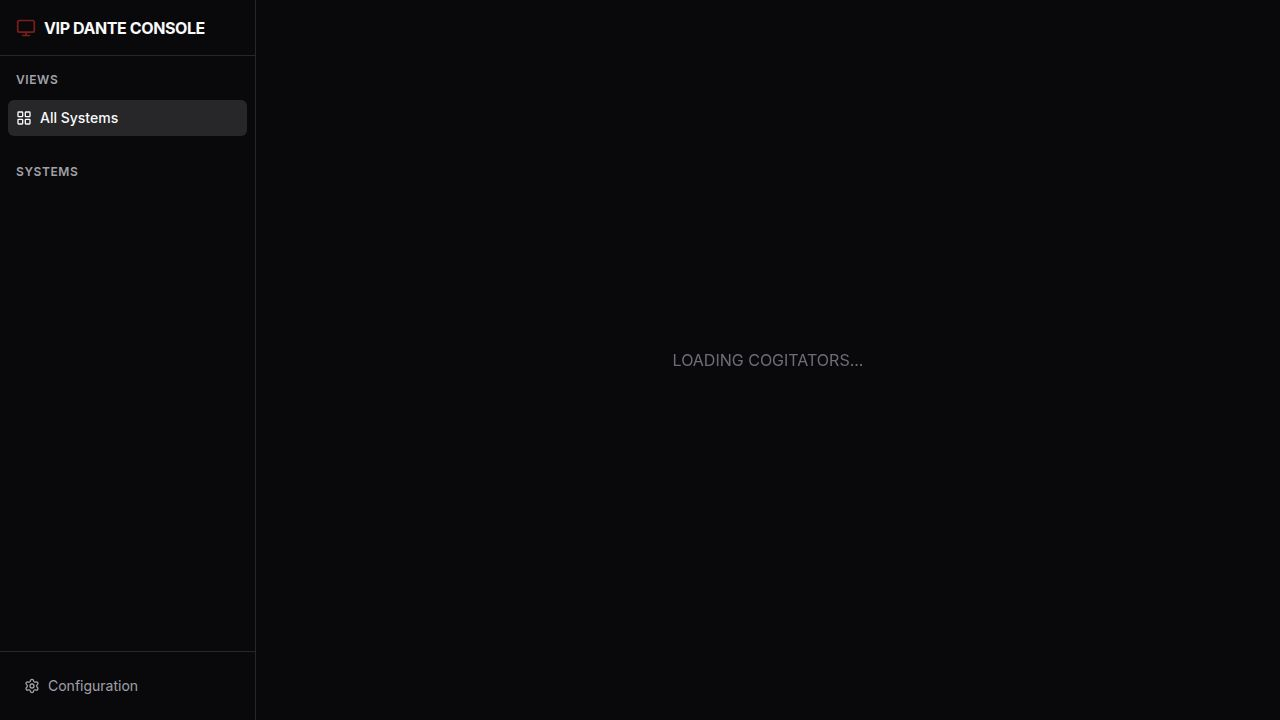
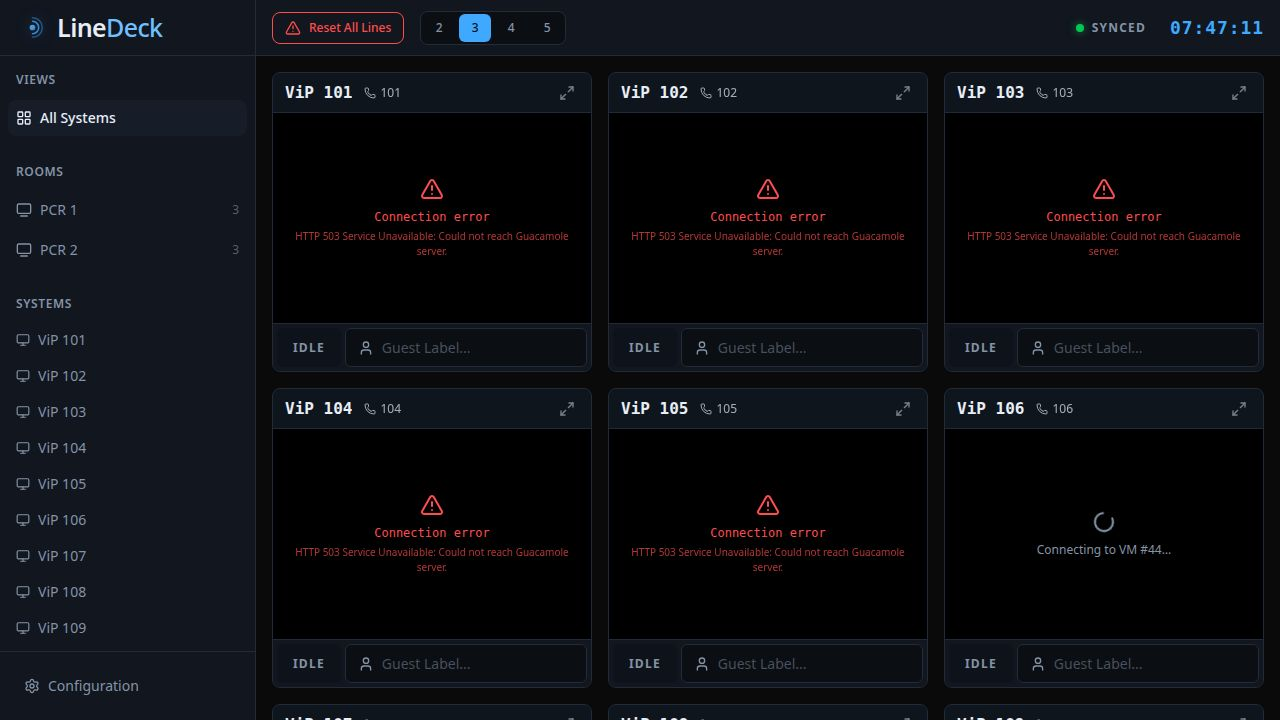
Improve how remote sessions are managed and displayed
Refactor Guacamole client component to separate connection lifecycle from input handling, fixing a bug where expanding/collapsing tiles would tear down the session.

Replit-Commit-Author: Agent
Replit-Commit-Session-Id: c8d1aef7-62c7-4109-8a13-491b03c366bc
Replit-Commit-Checkpoint-Type: full_checkpoint
Replit-Commit-Event-Id: c1f75194-f396-44e5-a64b-2d86f6e42dfe
Replit-Commit-Screenshot-Url: https://storage.googleapis.com/screenshot-production-us-central1/3bac0a0e-67da-4059-9705-85fab959bcc3/c8d1aef7-62c7-4109-8a13-491b03c366bc/QyrLotT
Replit-Helium-Checkpoint-Created: true

diff --git a/artifacts/console/src/components/guac-client.tsx b/artifacts/console/src/components/guac-client.tsx
@@ -17,11 +17,11 @@ export function GuacClient({ connectionId, dataSource, interactive = false }: Gu
   const [phase, setPhase] = useState<Phase>("connecting");
   const [message, setMessage] = useState<string>("");
 
+  // ── Connection lifecycle: depends ONLY on connection identity.
+  // Toggling `interactive` (expand/collapse) must NOT tear down the tunnel.
   useEffect(() => {
     let cancelled = false;
     let client: Guacamole.Client | null = null;
-    let mouse: Guacamole.Mouse | null = null;
-    let keyboard: Guacamole.Keyboard | null = null;
     let displayEl: HTMLElement | null = null;
 
     (async () => {
@@ -40,7 +40,6 @@ export function GuacClient({ connectionId, dataSource, interactive = false }: Gu
         client = new Guacamole.Client(tunnel);
         clientRef.current = client;
 
-        // Render the Guacamole display into our container.
         const display = client.getDisplay();
         displayEl = display.getElement();
         if (containerRef.current) {
@@ -64,31 +63,13 @@ export function GuacClient({ connectionId, dataSource, interactive = false }: Gu
           token: authToken,
           GUAC_DATA_SOURCE: effectiveDs,
           GUAC_ID: String(connectionId),
-          GUAC_TYPE: "c", // connection (not group)
+          GUAC_TYPE: "c",
           GUAC_WIDTH: String(Math.max(640, containerRef.current?.clientWidth ?? 1024)),
           GUAC_HEIGHT: String(Math.max(360, containerRef.current?.clientHeight ?? 768)),
           GUAC_DPI: "96",
         });
 
         client.connect(params.toString());
-
-        if (interactive && containerRef.current) {
-          mouse = new Guacamole.Mouse(containerRef.current);
-          const fwd = () => {
-            if (client && mouse) client.sendMouseState(mouse.currentState, true);
-          };
-          mouse.on("mousedown", fwd);
-          mouse.on("mouseup", fwd);
-          mouse.on("mousemove", fwd);
-
-          keyboard = new Guacamole.Keyboard(document);
-          keyboard.onkeydown = (sym) => {
-            if (client) client.sendKeyEvent(1, sym);
-          };
-          keyboard.onkeyup = (sym) => {
-            if (client) client.sendKeyEvent(0, sym);
-          };
-        }
       } catch (err) {
         if (cancelled) return;
         setPhase("error");
@@ -99,32 +80,55 @@ export function GuacClient({ connectionId, dataSource, interactive = false }: Gu
     return () => {
       cancelled = true;
       try {
-        if (mouse) {
-          mouse.offEach(["mousedown", "mouseup", "mousemove"], () => true);
-        }
-        if (keyboard) {
-          keyboard.onkeydown = null;
-          keyboard.onkeyup = null;
-        }
-        if (client) {
-          client.disconnect();
-        }
+        if (client) client.disconnect();
       } catch {
-        // swallow — best-effort cleanup
+        // best-effort
       }
       clientRef.current = null;
       if (displayEl && displayEl.parentNode) {
         displayEl.parentNode.removeChild(displayEl);
       }
     };
-  }, [connectionId, dataSource, interactive]);
+  }, [connectionId, dataSource]);
+
+  // ── Input binding: layered on top of the live client. Toggles cleanly
+  // with `interactive` without touching the tunnel.
+  useEffect(() => {
+    if (!interactive) return;
+    const container = containerRef.current;
+    const client = clientRef.current;
+    if (!container || !client) return;
+
+    const mouse = new Guacamole.Mouse(container);
+    const fwd = () => {
+      client.sendMouseState(mouse.currentState, true);
+    };
+    mouse.on("mousedown", fwd);
+    mouse.on("mouseup", fwd);
+    mouse.on("mousemove", fwd);
+
+    const keyboard = new Guacamole.Keyboard(document);
+    keyboard.onkeydown = (sym) => {
+      client.sendKeyEvent(1, sym);
+    };
+    keyboard.onkeyup = (sym) => {
+      client.sendKeyEvent(0, sym);
+    };
+
+    return () => {
+      try {
+        mouse.offEach(["mousedown", "mouseup", "mousemove"], () => true);
+        keyboard.onkeydown = null;
+        keyboard.onkeyup = null;
+      } catch {
+        // best-effort
+      }
+    };
+  }, [interactive, phase]);
 
   return (
     <div className="relative w-full h-full bg-black overflow-hidden">
-      <div
-        ref={containerRef}
-        className="w-full h-full flex items-center justify-center"
-      />
+      <div ref={containerRef} className="w-full h-full flex items-center justify-center" />
       {phase === "connecting" && (
         <div className="absolute inset-0 flex flex-col items-center justify-center text-muted-foreground bg-black/60 pointer-events-none">
           <Loader2 className="w-6 h-6 animate-spin mb-2" />